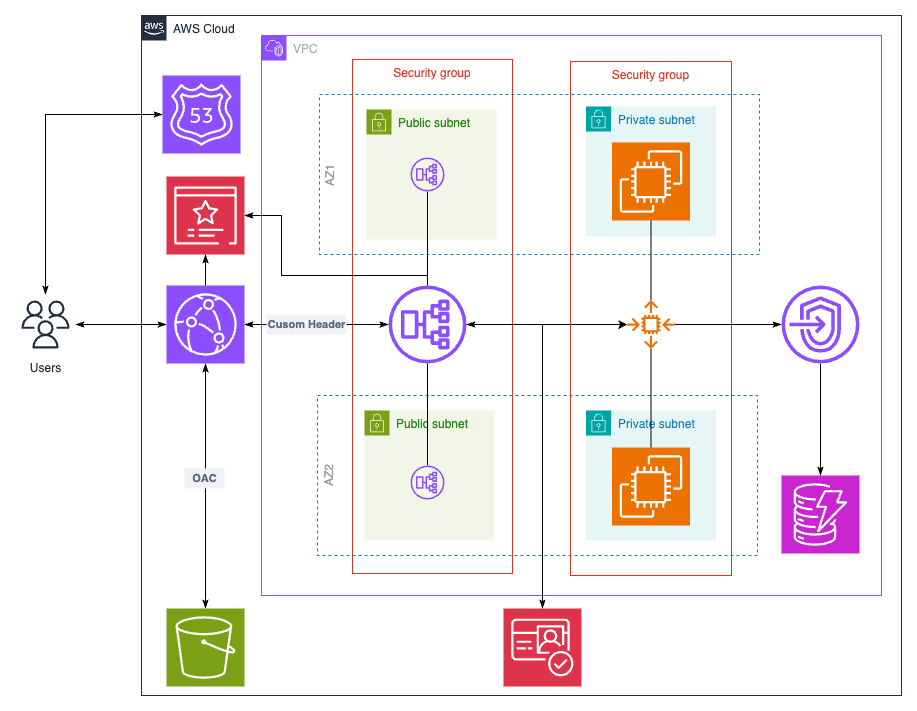
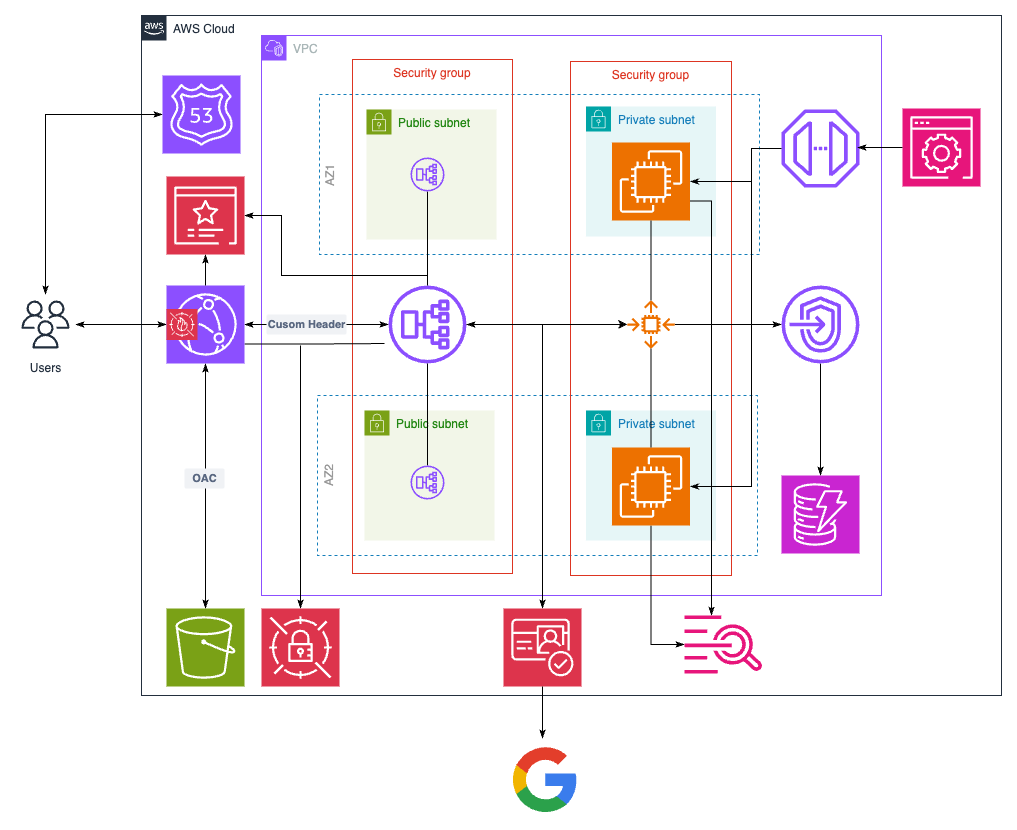
Add documentation

diff --git a/README.md b/README.md
@@ -1,3 +1,34 @@
 # AWS Deployment Examples
 
-A set of examples to demonstrate the various ways applications can be deployed on AWS using [AWS CDK](https://aws.amazon.com/cdk/).
+Set of examples to demonstrate the various ways applications can be deployed on AWS using [AWS CDK](https://aws.amazon.com/cdk/).
+
+## Prerequisites
+
+1. Node.js 20.x
+2. [direnv](https://direnv.net/)
+3. [httpie](https://httpie.io/)
+4. AWS CLI with account setup. (<https://www.granted.dev> is a great tool for switching profiles.)
+5. `aws-cdk` and `yalc`: `npm i -g aws-cdk yalc`. `Yalc` is a tool to work easily with npm packages locally.
+
+## Initial setup
+
+* Clone the repository. It's a monorepo with application projects in the `packages` folder.
+* Install dependencies.
+  * Root folder: `npm i`
+  * Install dependencies of all the projects: `npm i -ws`
+* The `custom-resources` project is an *aws cdk* library project with custom resources.
+  * Build the project: `npm run build -w custom-resources`
+  * Link it: `npm run link:custom-resources`
+  * Publish it to `yalc`: `npm run yalc:publish -w custom-resources`
+* Create `.env`. The `env-example` file can be used as a template for it.
+* **Domain setup**
+  * I use *Cloudflare* as my DNS provider and wanted to delegate only a sub-domain to *Route53*. The script `./scripts/delegate-subdomain.sh` does that.
+  * Update the `.env` file with necessary information.
+* OIDC authentication:
+  * Create *Google* credentials for OIDC authentication.
+  * Once created, run the script `./scripts/create-google-secret.sh` to create a AWS Secrets Manager secret for Google client secret.
+  * Update `.env` file with Google Client Id and ARN of the secret.
+
+## Examples
+
+1. [Frontend on S3, backend on EC2 with CloudFront, ALB and Cognito authentication with google](./docs/01-ec2.md)

diff --git a/packages/custom-resources/README.md b/packages/custom-resources/README.md
@@ -1,9 +1,9 @@
-# Welcome to your CDK TypeScript Construct Library project
+# AWS CDK Custom Resources
 
-You should explore the contents of this project. It demonstrates a CDK Construct Library that includes a construct (`CustomRes`)
-which contains an Amazon SQS queue that is subscribed to an Amazon SNS topic.
+This is a CDK Construct Library project that contains the following custom resources:
 
-The construct defines an interface (`CustomResProps`) to configure the visibility timeout of the queue.
+1. `prefixlist-get-resource`: gets the AWS cloudfront prefix list used to configure ALB security group to restrict access only from cloudfront.
+2. `dynamodb-insert-resource`: inserts a record into DynamoDB table to be used in the application
 
 ## Useful commands
 

diff --git a/docs/01-ec2.md b/docs/01-ec2.md
@@ -1,0 +1,18 @@
+# Frontend on S3, backend on EC2 with CloudFront, ALB and Cognito authentication with google
+
+## Architecture
+
+![Architecture](./ec2.png)
+
+## Initial Setup
+
+In frontend project, `./packages/frontend`, create two files `.env.local` and `.env.production` with contents as mentioned in the `env.example` file.
+
+## Build and deployment
+
+1. Build frontend: `npm run build -w frontend`
+2. Build the cdk project: `npm run build -w ec2`
+3. Change into the `ec2` directory: `cd packages/ec2`
+4. Build the project: `npm run build`
+5. Assume the correct AWS profile.
+6. Deploy the stack: `npx cdk deploy --all`
